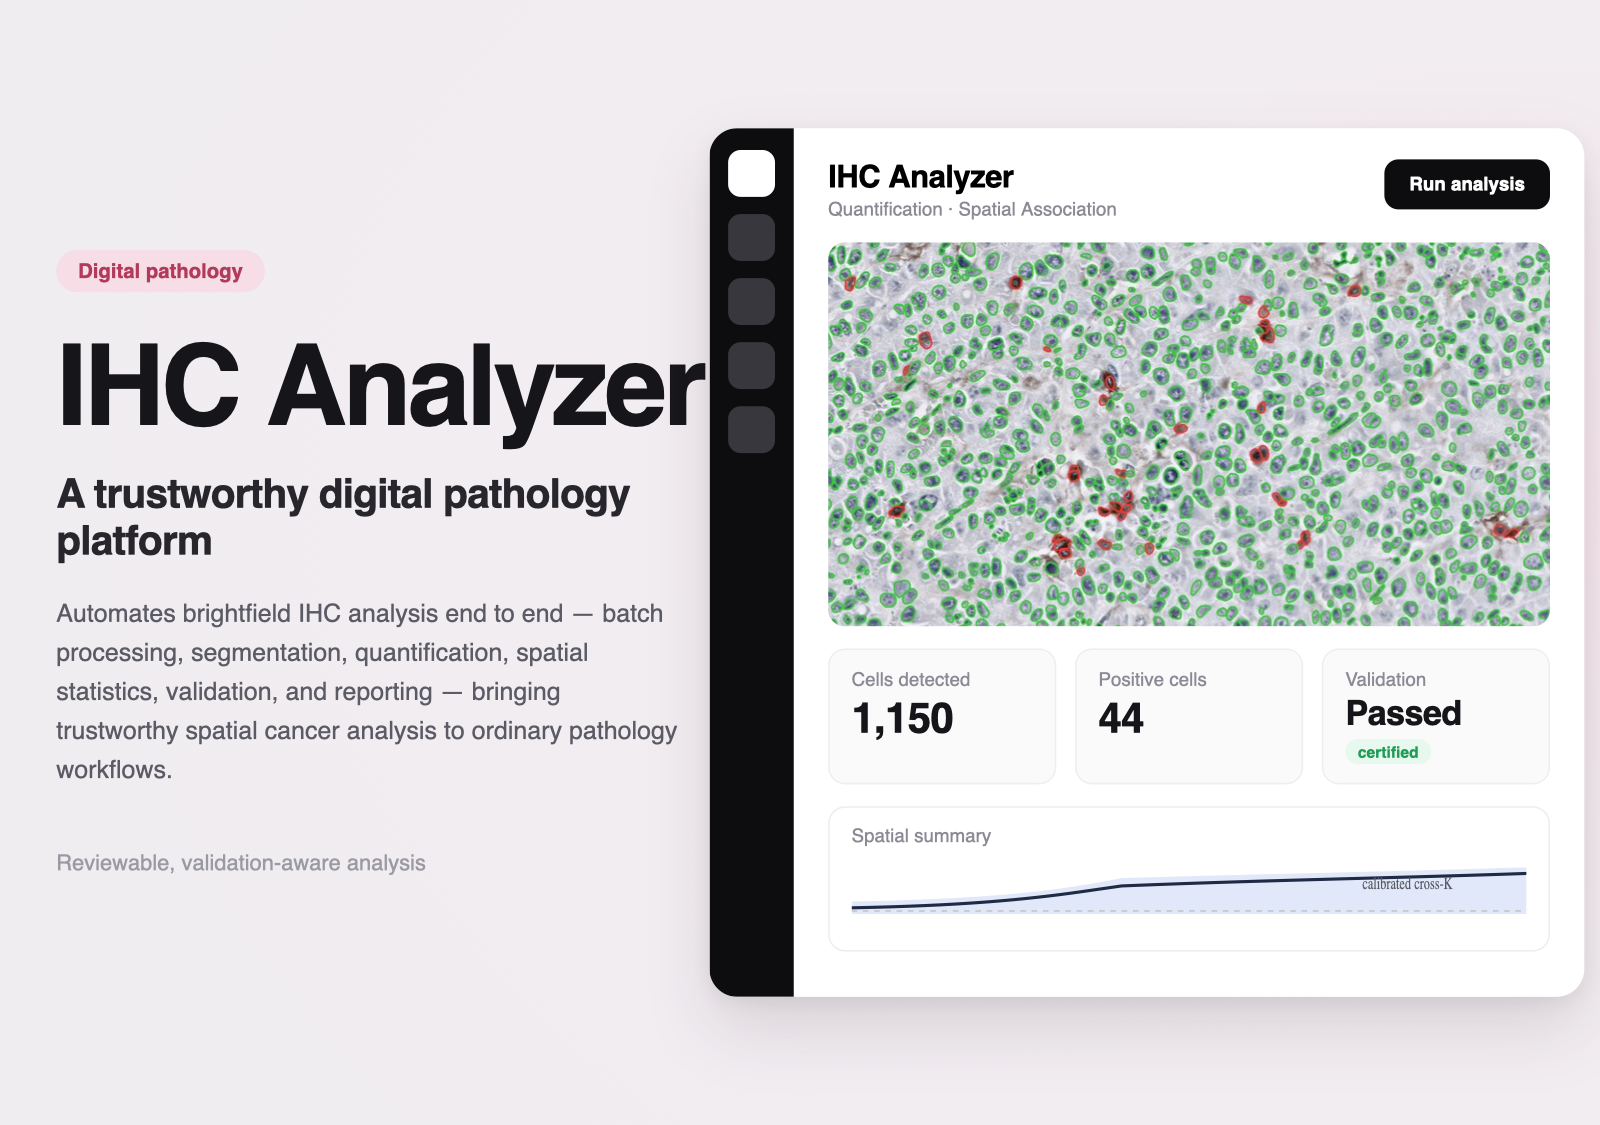
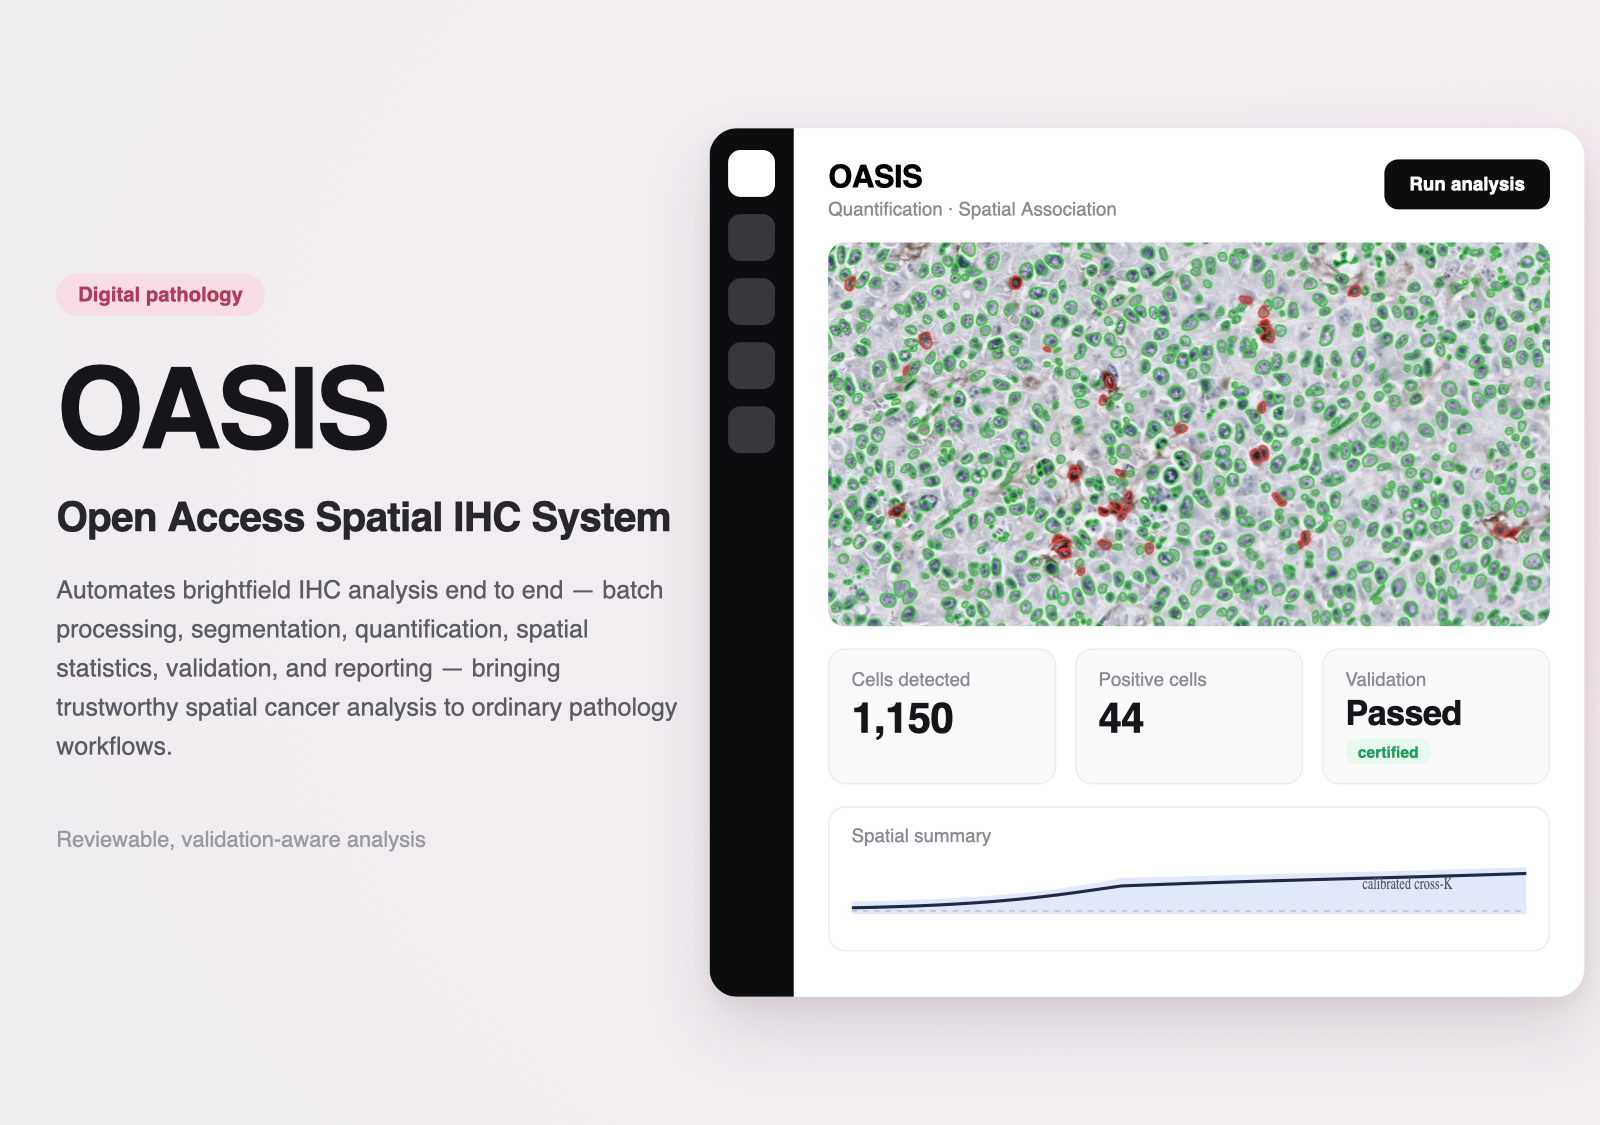
Reframe showcase as OASIS — Open Access Spatial IHC System (computational pathology platform)

Changed region(s): [[0.0312, 0.2178, 0.4375, 0.7156], [0.0312, 0.7467, 0.2812, 0.7778], [0.5312, 0.1244, 0.625, 0.1867]]

diff --git a/README.md b/README.md
@@ -1,24 +1,24 @@
-<!-- IHC Analyzer — public showcase repository. -->
+<!-- OASIS — Open Access Spatial IHC System. Public showcase repository. -->
 
 <p align="center">
-  <img src="images/hero.png" alt="IHC Analyzer — a trustworthy digital pathology platform" width="100%">
+  <img src="images/hero.png" alt="OASIS — Open Access Spatial IHC System" width="100%">
 </p>
 
-<h1 align="center">IHC Analyzer</h1>
+<h1 align="center">OASIS</h1>
 
 <p align="center">
-  <b>A digital-pathology platform for trustworthy spatial analysis of brightfield immunohistochemistry.</b>
+  <b>Open Access Spatial IHC System — a computational pathology platform for trustworthy spatial analysis of brightfield immunohistochemistry.</b>
 </p>
 
 <p align="center">
-  <img src="https://img.shields.io/badge/Digital%20Pathology-0d0d0d?style=flat-square">
-  <img src="https://img.shields.io/badge/Spatial%20Analysis-0d0d0d?style=flat-square">
+  <img src="https://img.shields.io/badge/Computational%20Pathology-0d0d0d?style=flat-square">
+  <img src="https://img.shields.io/badge/End--to--End%20Platform-0d0d0d?style=flat-square">
   <img src="https://img.shields.io/badge/Validation--Aware-16a34a?style=flat-square">
-  <img src="https://img.shields.io/badge/Batch%20Processing-0d0d0d?style=flat-square">
+  <img src="https://img.shields.io/badge/Open%20Access-b23a5d?style=flat-square">
 </p>
 
 <p align="center">
-  <a href="https://ihc-analysis-interactivedemo.vercel.app"><b>▶&nbsp;&nbsp;Try the Interactive Demo</b></a>
+  <a href="https://oasis-interactivedemo.vercel.app"><b>▶&nbsp;&nbsp;Try the Interactive Demo</b></a>
 </p>
 
 <br>
@@ -27,23 +27,50 @@
 
 ## Experience it in two minutes
 
-> **The best way to understand IHC Analyzer is to use it.**
+> **The best way to understand OASIS is to use it.**
 >
-> The **[Interactive Demo](https://ihc-analysis-interactivedemo.vercel.app)** walks you through the entire workflow — batch processing, segmentation, quantification, trustworthy spatial analysis, and same-section co-expression — on preloaded example data. No installation, no setup, no uploads.
+> The **[Interactive Demo](https://oasis-interactivedemo.vercel.app)** walks you through the entire platform — batch processing, segmentation, quantification, spatial analysis, validation, and reporting — on preloaded example data. No installation, no setup, no uploads.
 
 <p align="center">
-  <a href="https://ihc-analysis-interactivedemo.vercel.app"><b>→&nbsp;&nbsp;Launch the Interactive Demo</b></a>
+  <a href="https://oasis-interactivedemo.vercel.app"><b>→&nbsp;&nbsp;Launch the Interactive Demo</b></a>
 </p>
 
 ---
 
 ## What it is
 
-Reading *where* the immune system sits around a tumour — not just how many cells there are — has become one of the most important tools in cancer research. Today that usually means a six-figure multiplex imaging system, or a fragile stack of one-off scripts that is easy to fool.
+**OASIS — the Open Access Spatial IHC System — is an end-to-end computational pathology platform for brightfield immunohistochemistry.** It takes the slides a pathology lab already produces and carries them through one reproducible, validation-aware pipeline: batch processing, segmentation, quantification, spatial analysis, validation, and reporting.
 
-**IHC Analyzer is a single, professional platform that does the whole job on the ordinary brightfield IHC that every pathology lab already runs.** Point it at the images a lab already produces, and it detects cells, quantifies markers, runs spatial statistics, certifies its own assumptions, and writes a report in which every result is backed by an explicit validity check.
+It is **free and open-access**, scalable from a single slide to an entire study, and built around the pathology infrastructure labs already have. Every result it produces is backed by an explicit validity check — the trust isn't a disclaimer bolted on at the end, it's built into the workflow.
 
-The trust isn't a disclaimer bolted on at the end — it's built into the workflow.
+---
+
+## Why it exists
+
+Computational pathology is fragmented. Getting from a raw slide to a defensible spatial result usually means moving between several independent tools — one for segmentation, another for quantification, another for statistics, another for figures — stitched together by hand and trusted on faith.
+
+**OASIS unifies that workflow into a single computational instrument.** Its accessibility comes from software, not specialized infrastructure: the capability lives in the platform, so any lab working with ordinary brightfield IHC can reach analysis that was previously scattered across disconnected, expert-only tooling.
+
+---
+
+## Why OASIS?
+
+Most tools solve a single stage of the problem. OASIS is built to do the whole thing — and to be trustworthy at every step.
+
+It unifies the entire workflow into one platform:
+
+- **Batch processing**
+- **Segmentation**
+- **Quantification**
+- **Spatial analysis**
+- **Validation**
+- **Reporting**
+
+Its defining philosophy is simple:
+
+> **Every computational conclusion should be reproducible, reviewable, and explicitly validated before it reaches the researcher.**
+
+That principle — not any single algorithm — is what sets OASIS apart. Results aren't just produced; they are certified, gated, and inspectable, so a researcher can defend every number the platform reports.
 
 ---
 
@@ -89,14 +116,14 @@ Every run produces clean, reproducible outputs — overlays, tables, and a valid
 
 ## Why it matters
 
-Advanced spatial analysis shouldn't be the privilege of a handful of well-funded centres. By running on the stains, scanners, and archived slides that pathology labs already have, IHC Analyzer brings trustworthy spatial cancer analysis within reach far more widely — **without ever trading rigor for accessibility.**
+Advanced spatial analysis shouldn't be the privilege of a handful of well-funded centres. By running on the stains, scanners, and archived slides that pathology labs already have, OASIS brings trustworthy spatial analysis within reach far more widely — **without ever trading rigor for accessibility.**
 
 ---
 
 <p align="center">
-  <a href="https://ihc-analysis-interactivedemo.vercel.app"><b>▶&nbsp;&nbsp;Experience the Interactive Demo</b></a>
+  <a href="https://oasis-interactivedemo.vercel.app"><b>▶&nbsp;&nbsp;Experience the Interactive Demo</b></a>
 </p>
 
 <p align="center">
-  <sub>IHC Analyzer — automated, validated, reproducible digital pathology. Built and tested against reference implementations and expert-annotated datasets.</sub>
+  <sub>OASIS — Open Access Spatial IHC System. An end-to-end, validation-aware, reproducible computational pathology platform, built around the infrastructure labs already have.</sub>
 </p>